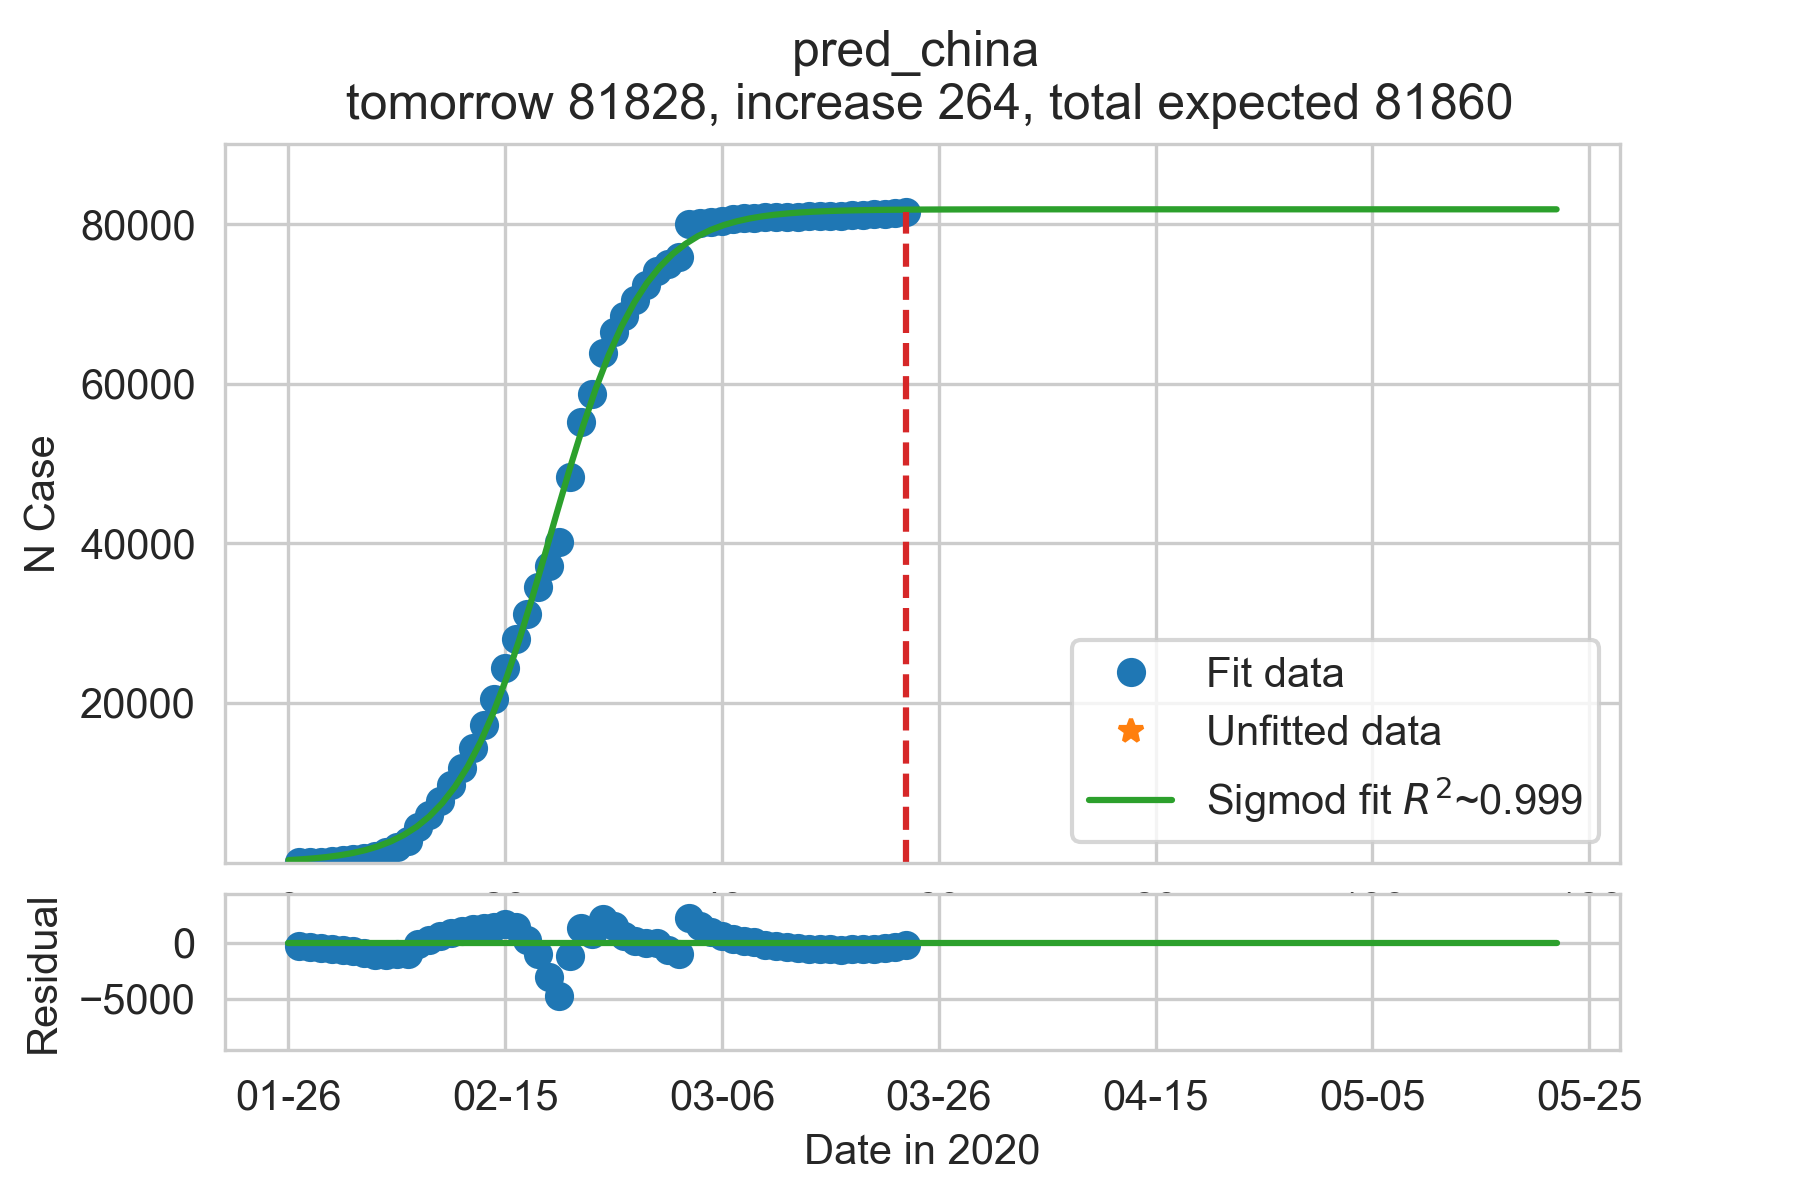
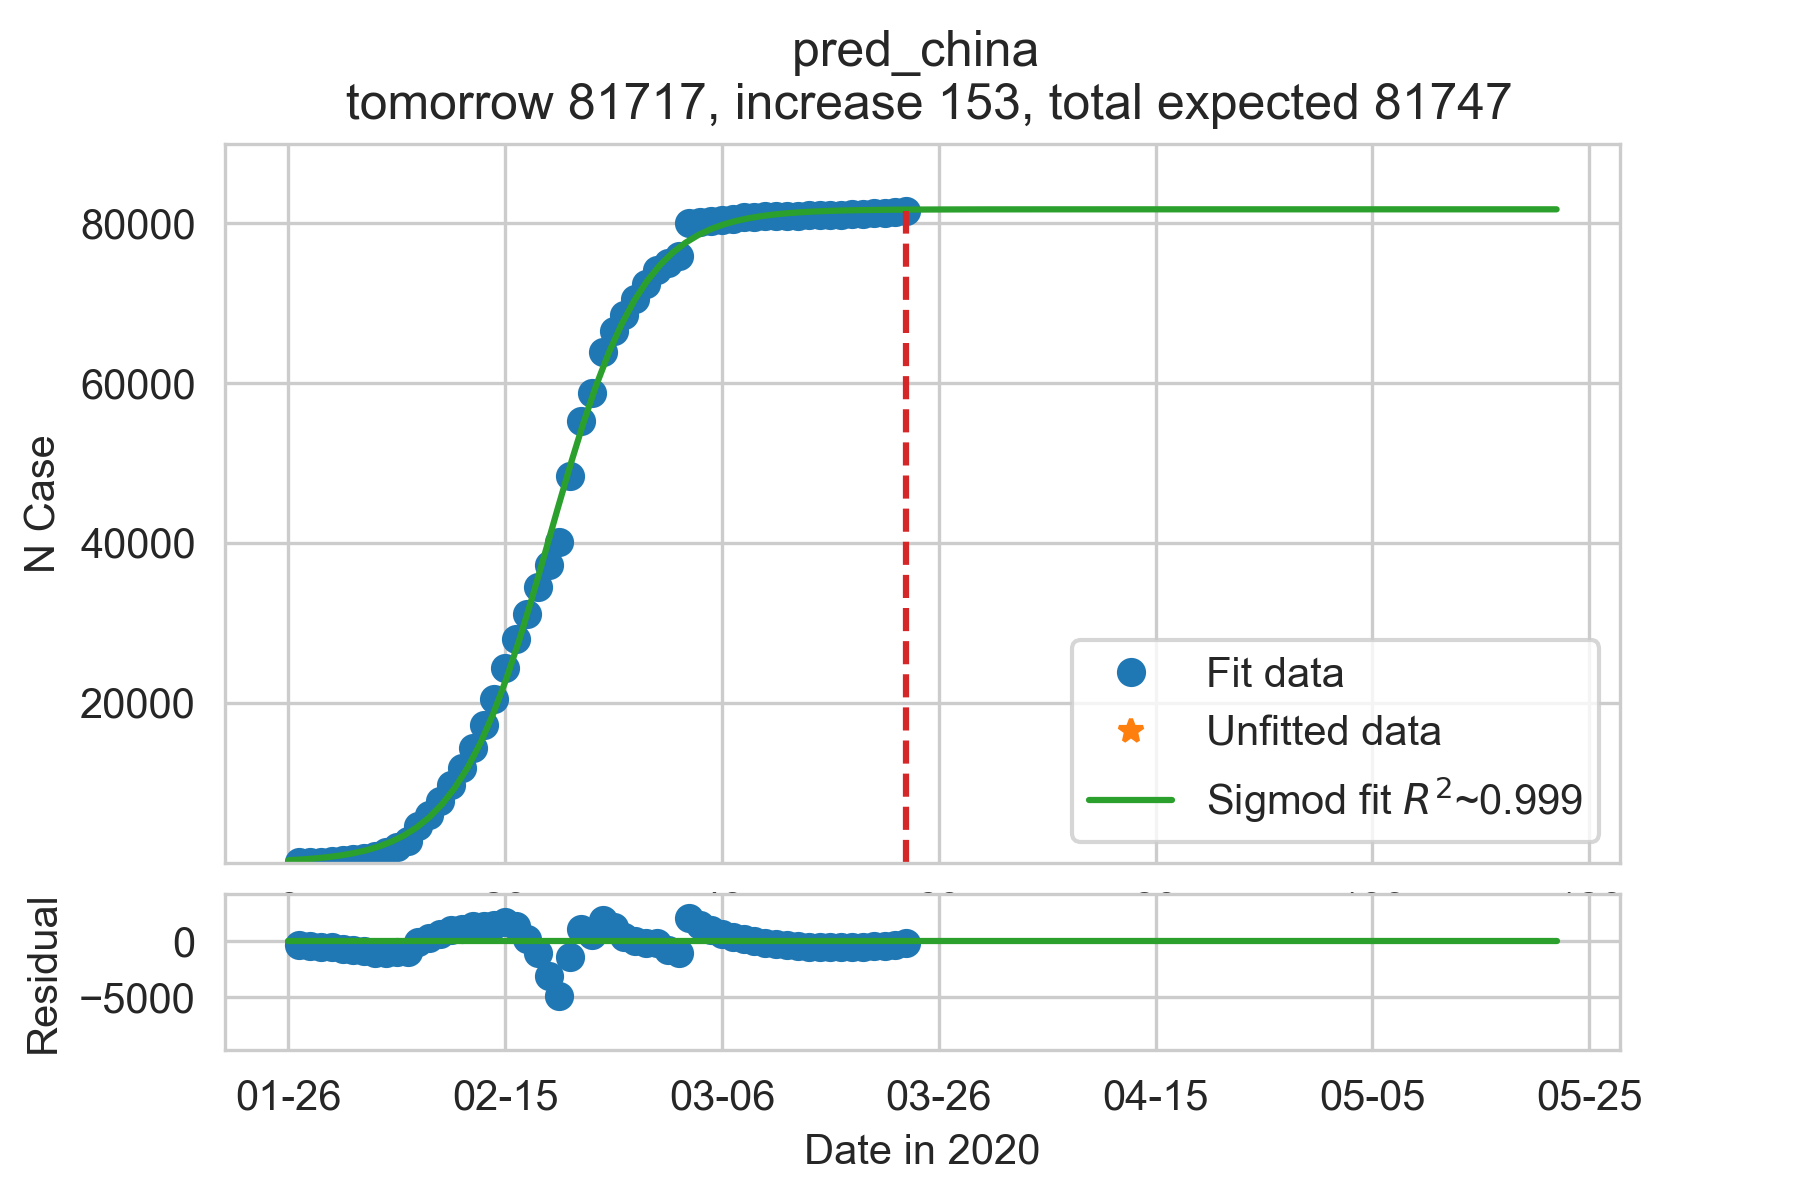
update the figures after a week. It seems the world's growth will turn in another week or two. The case in US is unclear if the growth is controled or limited by testing.

diff --git a/README.md b/README.md
@@ -6,6 +6,6 @@ May health and peace be around you.
 
 This is the saddest modeling that I have to do in my life.
 Now there is hope. The turning point is finally here.
-![China](https://github.com/tongbaojia/vr_2020/blob/master/Plots/2020-03-22_pred_china.png)
-![US](https://github.com/tongbaojia/vr_2020/blob/master/Plots/2020-03-22_pred_us.png)
-![World excluding China](https://github.com/tongbaojia/vr_2020/blob/master/Plots/2020-03-22_pred_world_exclude_china.png)
+![China](https://github.com/tongbaojia/vr_2020/blob/master/Plots/2020-03-29_pred_china.png)
+![US](https://github.com/tongbaojia/vr_2020/blob/master/Plots/2020-03-29_pred_us.png)
+![World excluding China](https://github.com/tongbaojia/vr_2020/blob/master/Plots/2020-03-29_pred_world_exclude_china.png)
